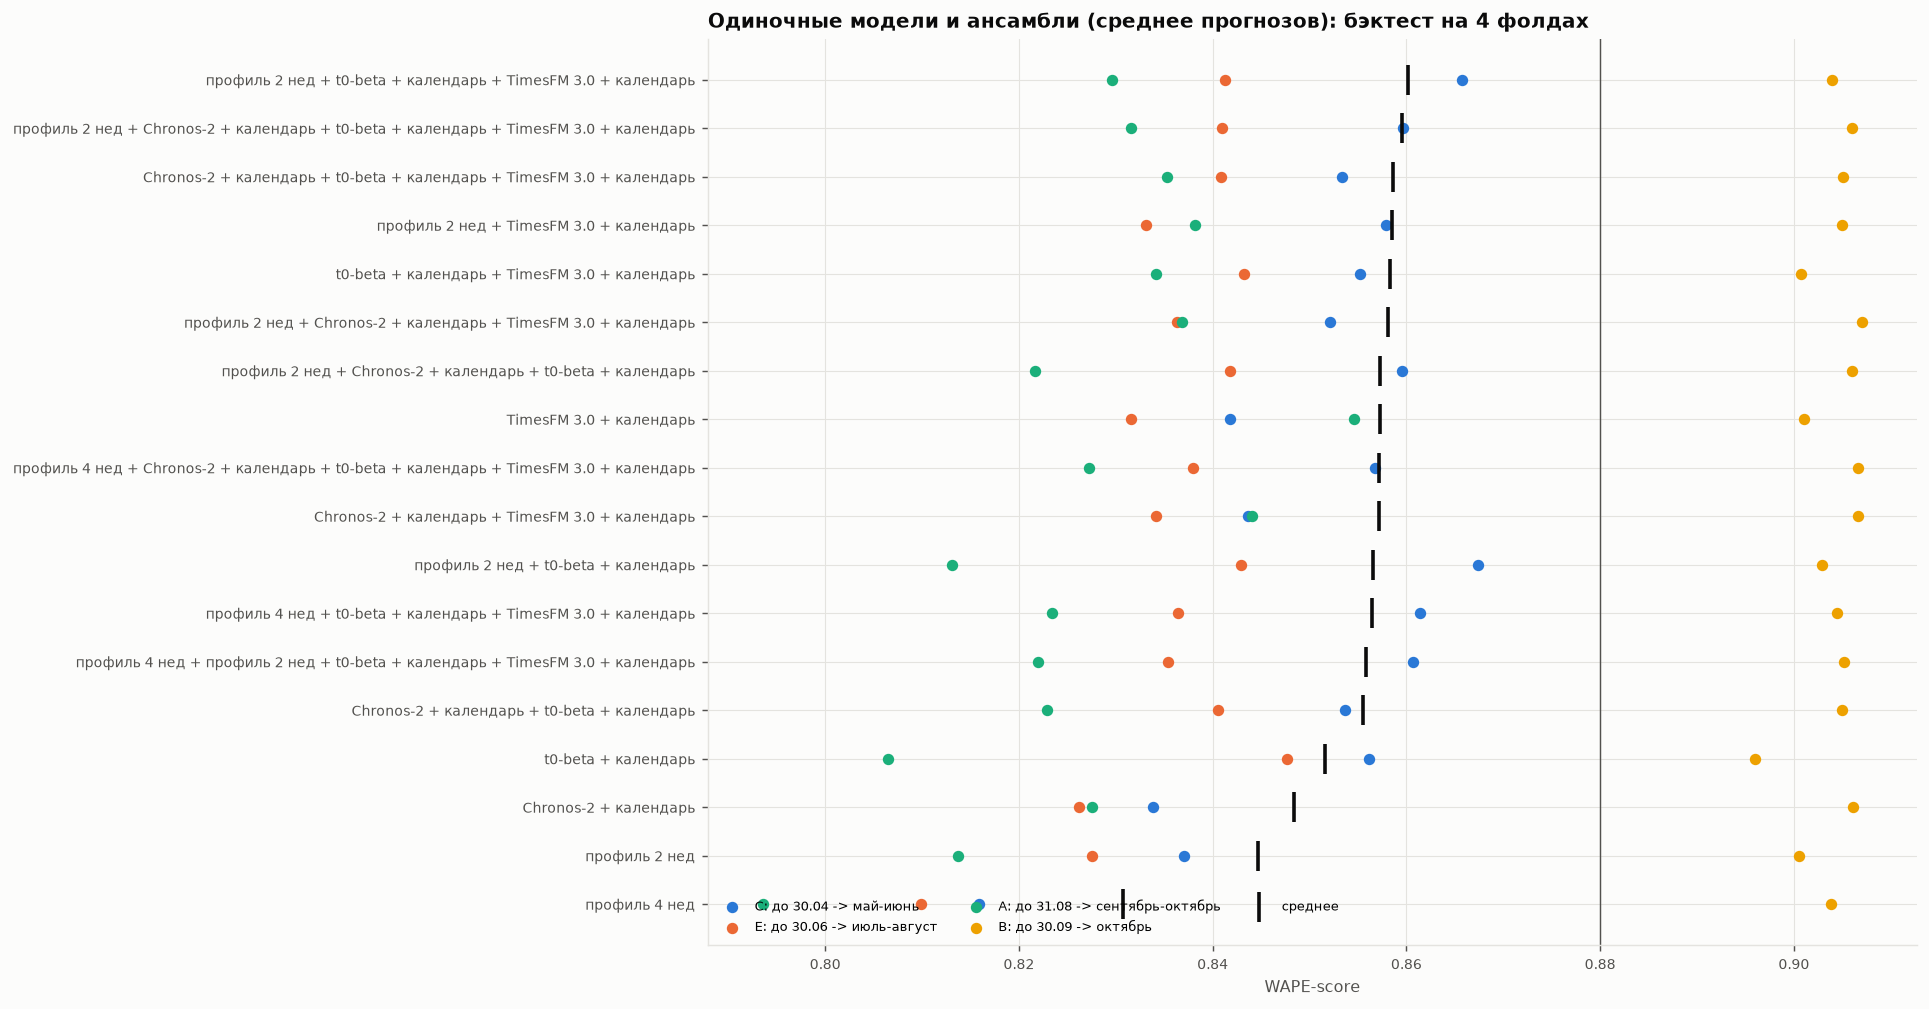
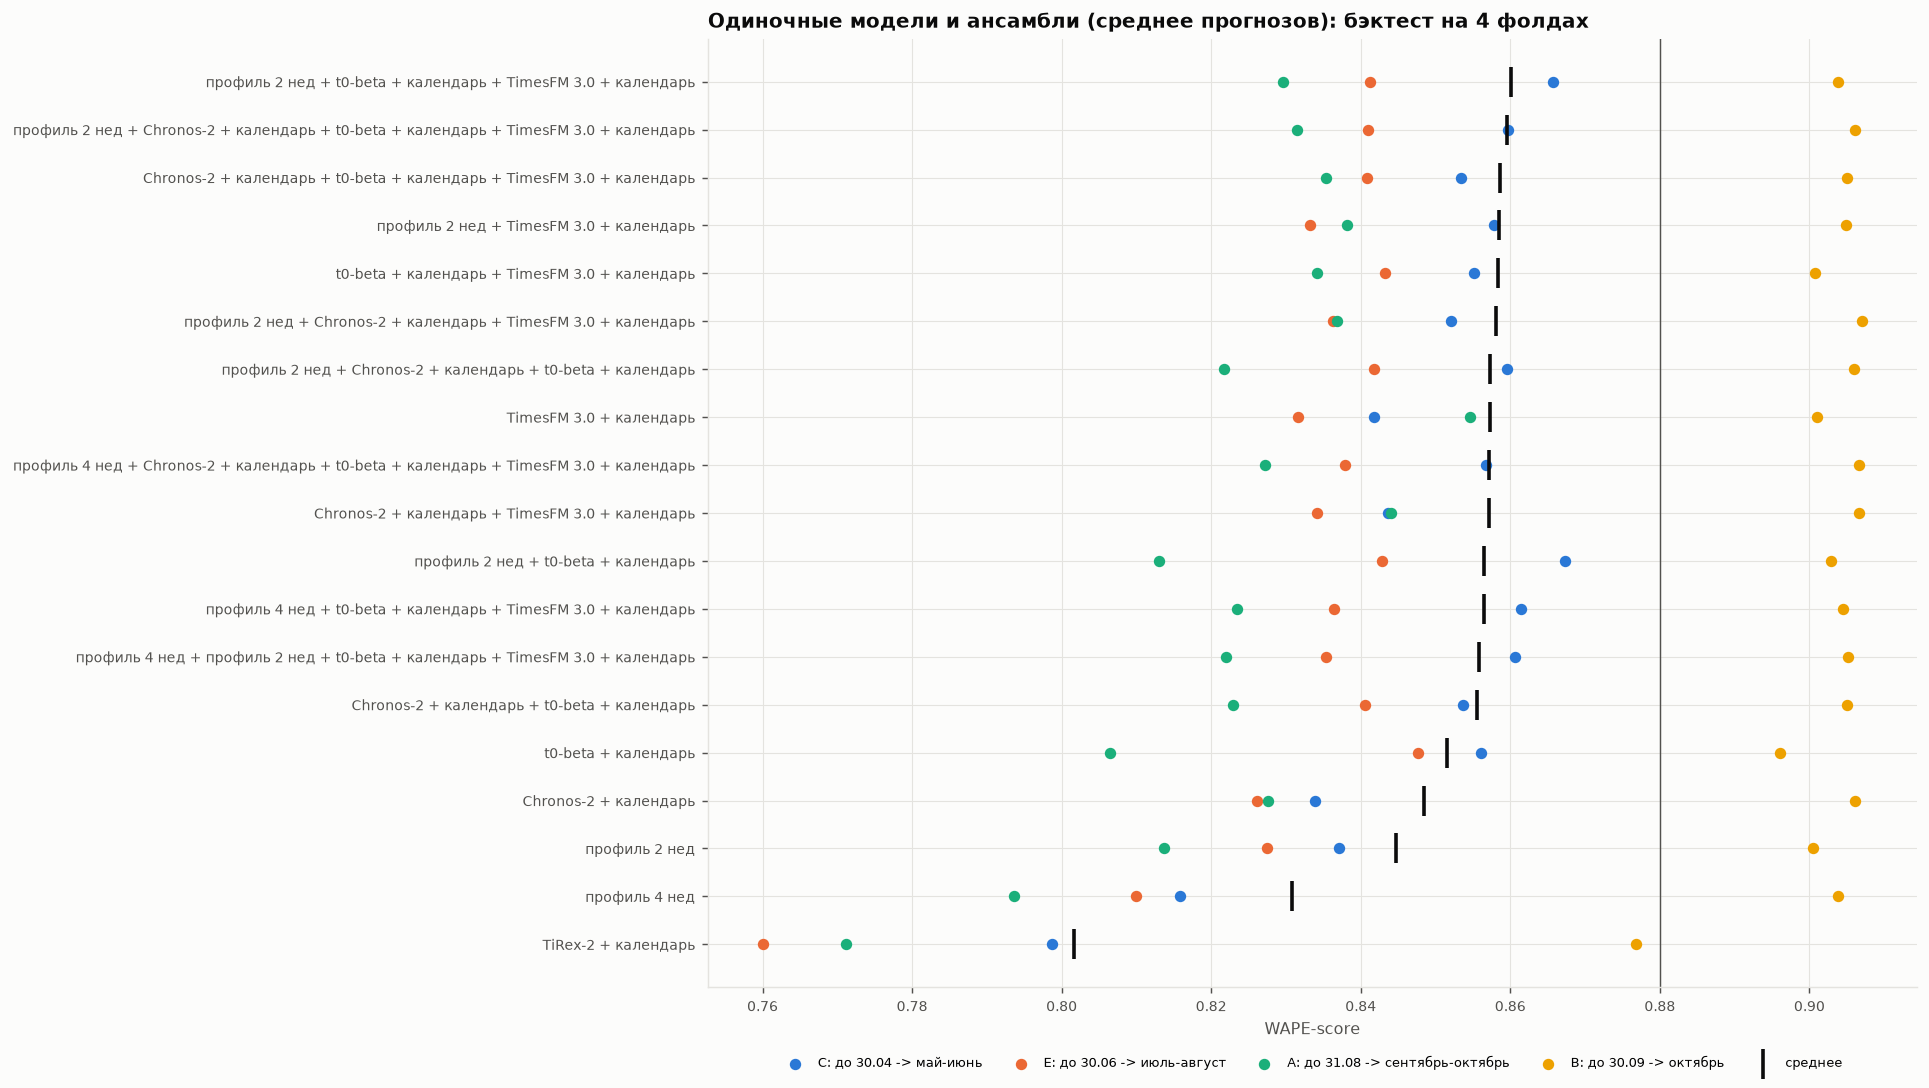
feat(models): include TiRex-2 in ensemble backtest
TiRex-2 (Docker, GPU) averages 0.80 WAPE-score over 4 folds and does not
improve any ensemble. The ensembles chart now picks single models from
the member list instead of a regex and keeps the legend off the data.

diff --git a/analysis/s11_ensembles.py b/analysis/s11_ensembles.py
@@ -69,9 +69,9 @@ def score_table(df: pd.DataFrame, members: list[str]) -> pd.DataFrame:
     return pv.sort_values("среднее", ascending=False)
 
 
-def plot_top(pv: pd.DataFrame, n: int = 14) -> None:
+def plot_top(pv: pd.DataFrame, members: list[str], n: int = 14) -> None:
     top = pv.head(n)
-    singles = pv[~pv.index.str.contains(r" \+ профиль| \+ Chronos| \+ t0| \+ TimesFM", regex=True)]
+    singles = pv[pv.index.isin(members)]
     show = pd.concat([top, singles[~singles.index.isin(top.index)]]).drop_duplicates()
     fig, ax = plt.subplots(figsize=(12, 0.42 * len(show) + 1.5))
     y = np.arange(len(show))
@@ -82,7 +82,7 @@ def plot_top(pv: pd.DataFrame, n: int = 14) -> None:
     ax.invert_yaxis()
     ax.axvline(0.88, color=TEXT_SECONDARY, lw=0.8)
     ax.set_xlabel("WAPE-score")
-    ax.legend(loc="lower left", ncols=3, fontsize=7)
+    ax.legend(loc="upper center", bbox_to_anchor=(0.5, -0.06), ncols=5, fontsize=7)
     ax.set_title("Одиночные модели и ансамбли (среднее прогнозов): бэктест на 4 фолдах", loc="left")
     savefig(fig, "17_backtest_ensembles")
 
@@ -102,7 +102,7 @@ def main() -> None:
     pv.round(4).to_csv(TABLES / "backtest_ensembles.csv")
     no_nc = pv[~pv.index.str.contains("TimesFM")]
     print("\nбез некоммерческих весов (TimesFM):\n", no_nc.round(4).head(8).to_string())
-    plot_top(pv)
+    plot_top(pv, members)
 
 
 if __name__ == "__main__":
